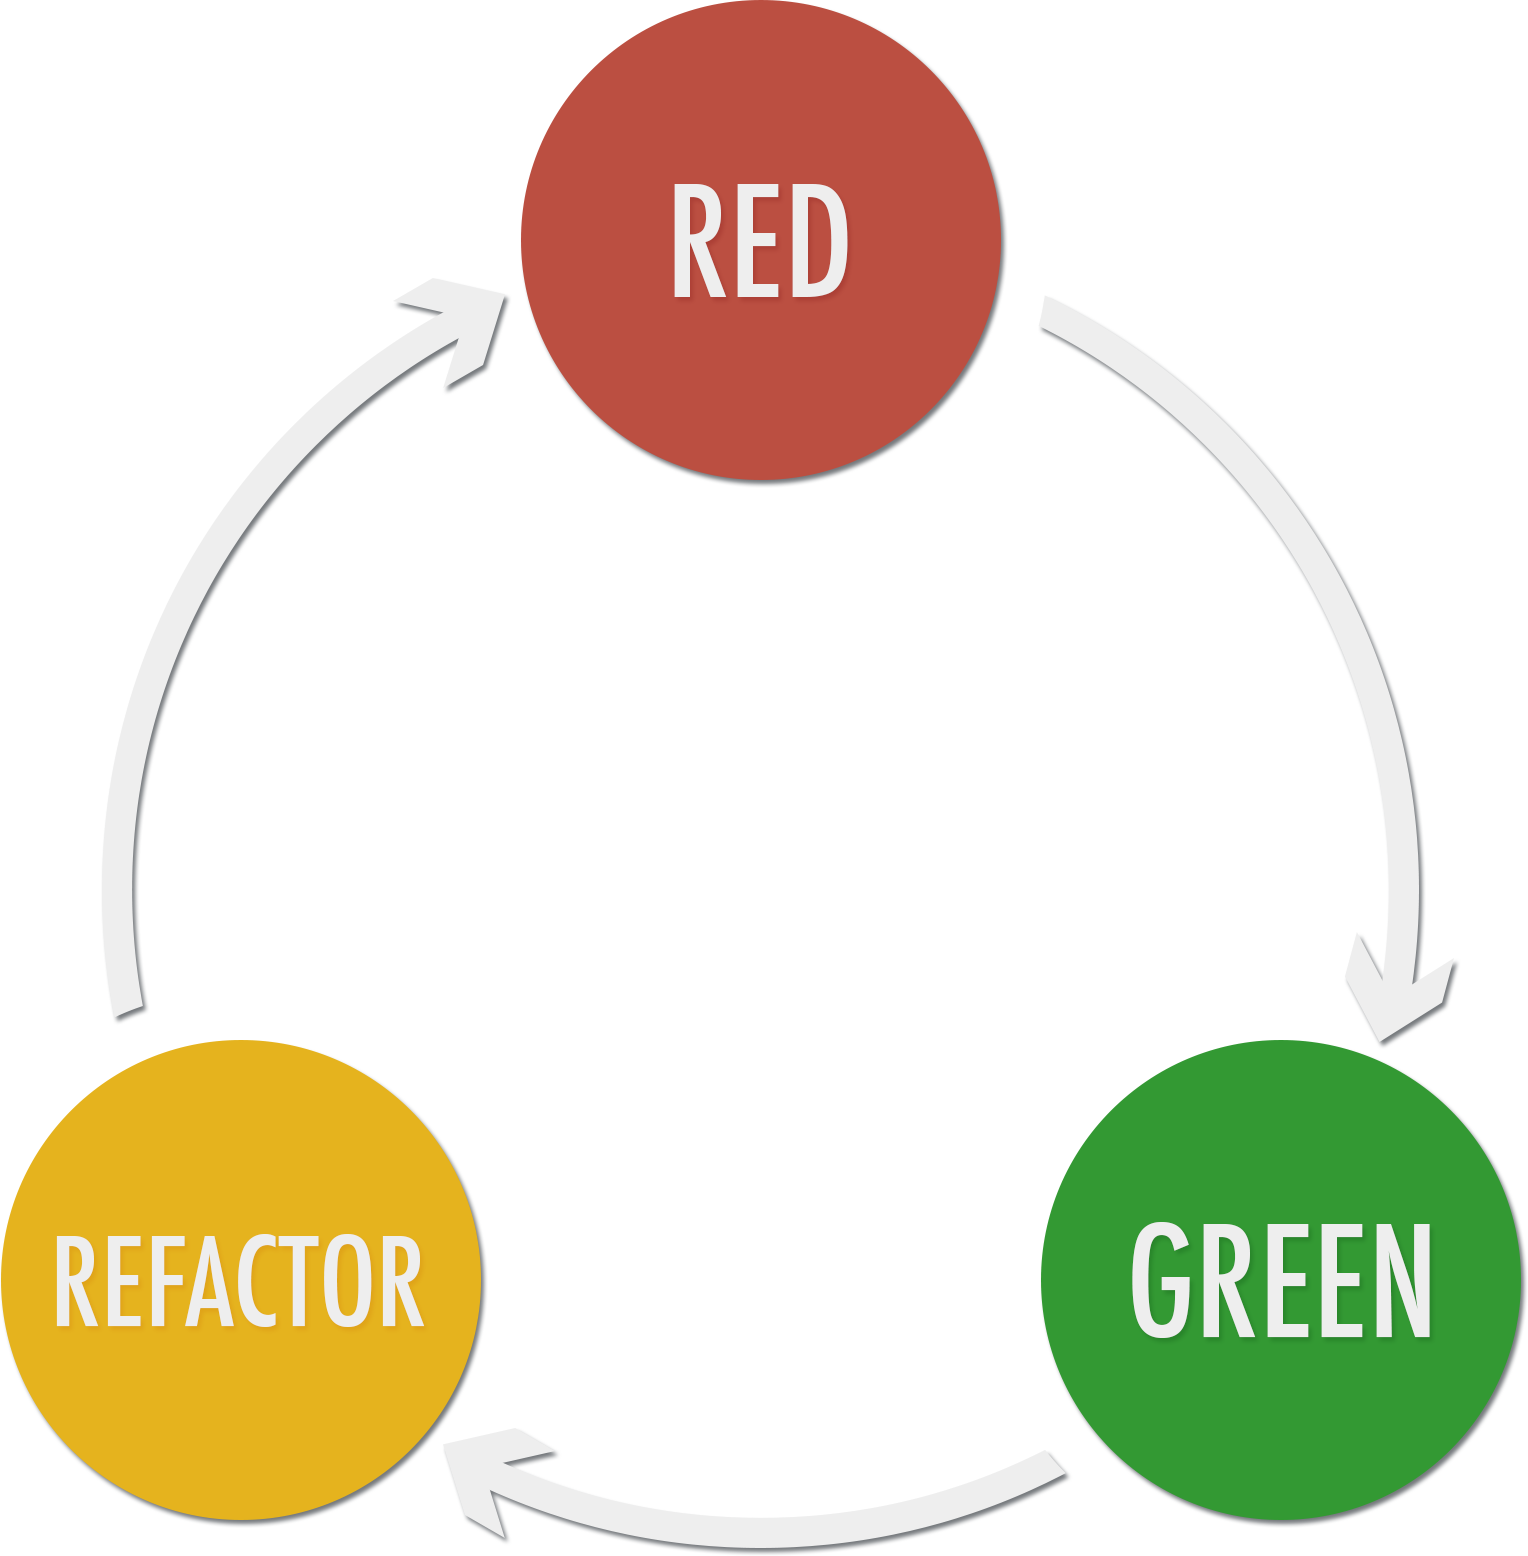
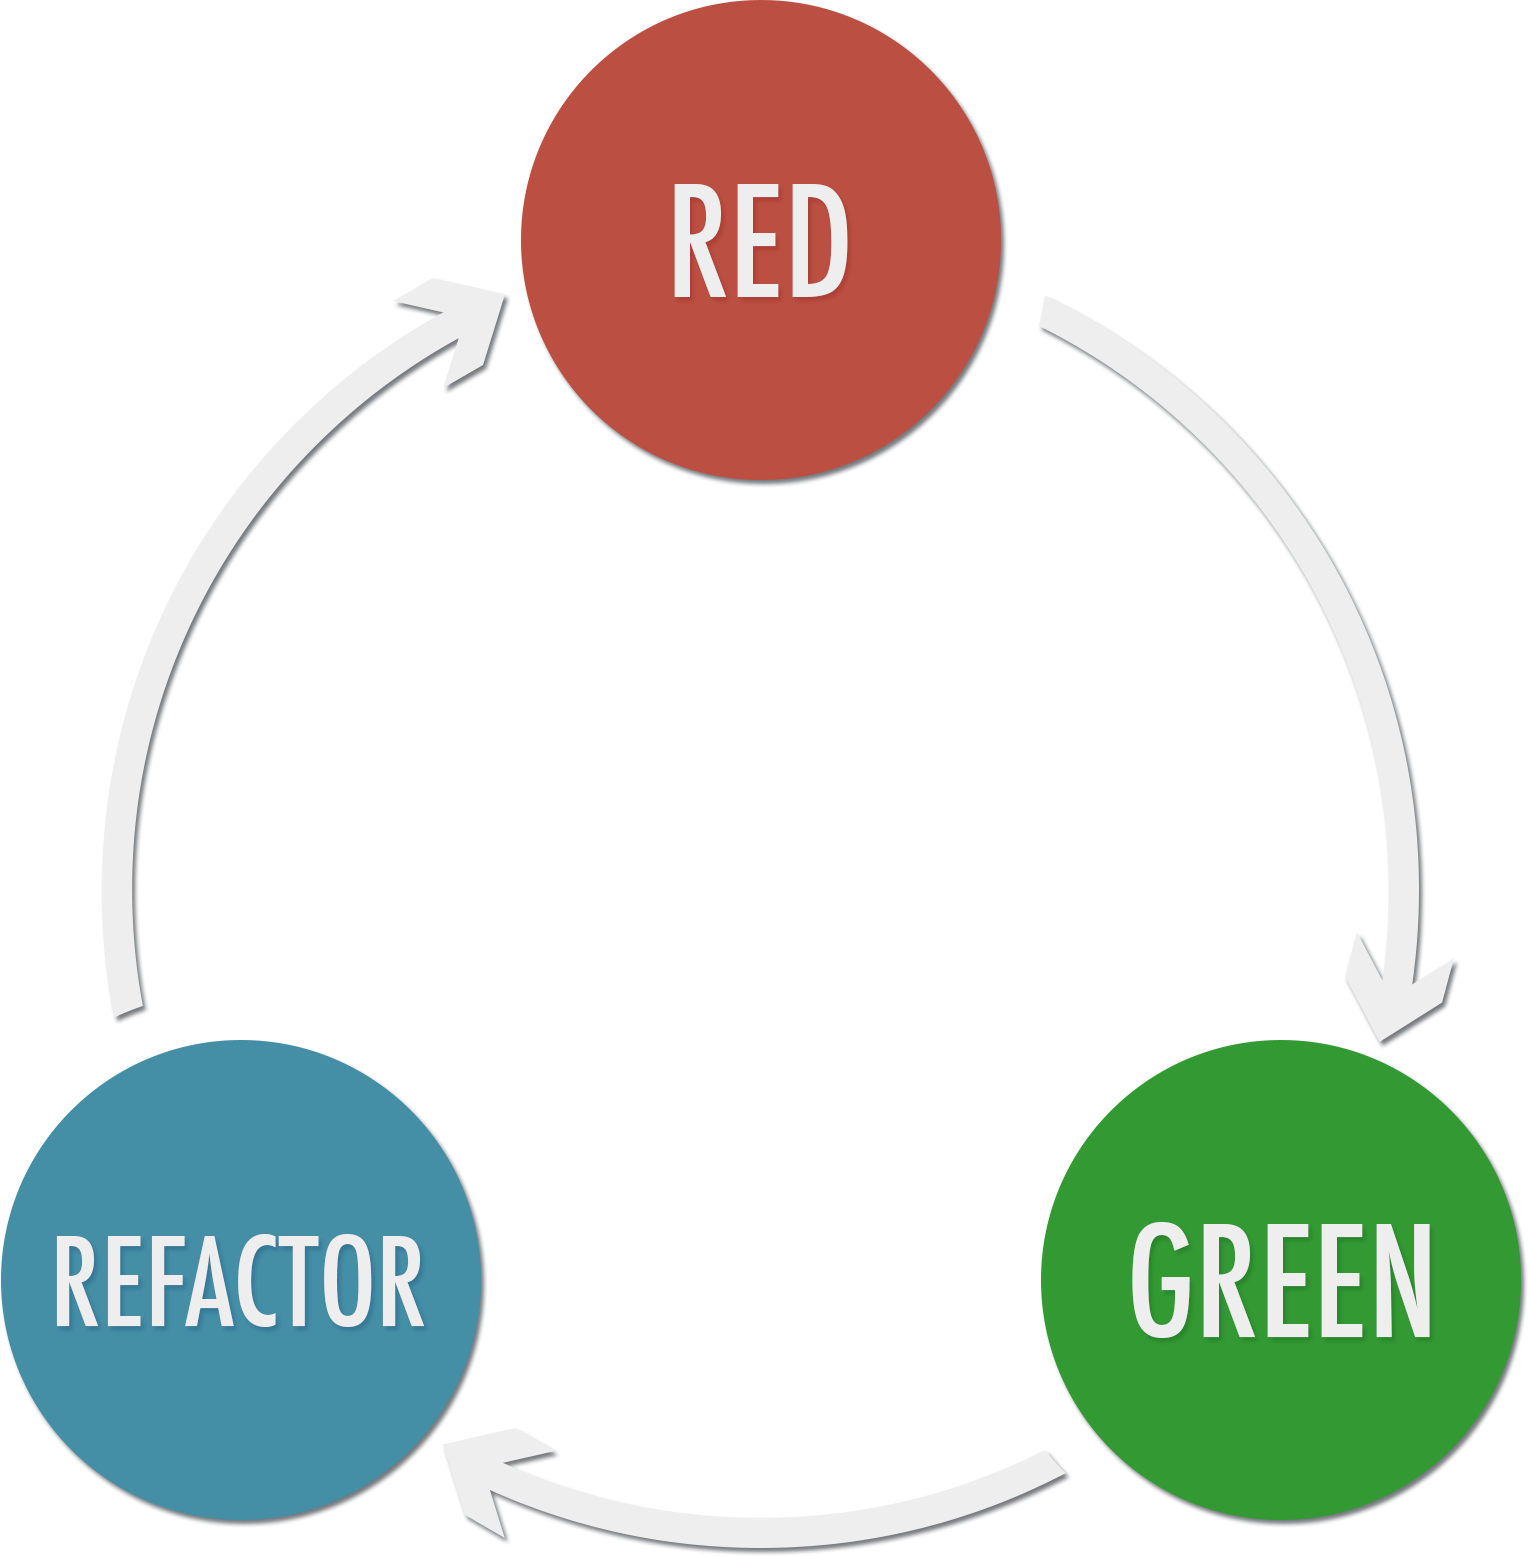
Fixes from feedback notes

Changed region(s): [[0.0, 0.6478, 0.3384, 0.9871]]

diff --git a/index.html b/index.html
@@ -38,7 +38,7 @@
         }
 
         .reveal section .refactor {
-            color: #e5b31e;
+            color: #448ea6;
             text-shadow: none;
         }
 
@@ -78,7 +78,7 @@
             [@brrygrdn](https://twitter.com/brrygrdn)
 
             Note:
-
+            - Test first!
             - TDD is a big subject, the detail of testing applications and techniques are a continious conversation
             - I have 15 minutes...
             - Researching the subject, I ran into polemics against TDD
@@ -92,10 +92,8 @@
             [@brrygrdn](https://twitter.com/brrygrdn)
 
             Note:
-
             - This talk is a light manifesto for TDD, and a reminder of how we - as engineers - came to this approach
             - Terrible, handwaving example code; Delegate to far better, detailed talks
-
             - Questions!
                 - How many of you test your software?
                 - How many of you write automatic tests?
@@ -105,7 +103,6 @@
             ## The ascent of a programmer
 
             Note:
-
             - This is perhaps a failing, but that I think of software development as being very empirical
             - To some extent we are condemned as individual coders to retrace the evolution of our discipline
 
@@ -117,10 +114,9 @@
             ```
 
             Note:
-
             - We all start off issuing basic commands and making the computer do something
-            - Its fun
             - We probably did not start out in Ruby
+            - Its fun
 
             ===
             ## Make it flow
@@ -150,6 +146,7 @@
             ```
 
             Note:
+            - Code reuse
 
             ===
             ## Orientate some objects
@@ -172,6 +169,7 @@
             ```
 
             Note:
+            - Encapsulating methods
 
             ===
             ## Start seeing patterns
@@ -271,12 +269,13 @@
             - Adaptive Software Development
             - Feature Driven Development
             - Dynamic Systems Development Method
+            - Waterfall<!-- .element: class="fragment"-->
 
             Note:
-
             - Programmers are iconoclasts when it comes to processes, we like to tear them down and come up new ones
             - A lot of that is re-expressing the same ideas
             - Its where we interface with people who are not programmers and to some extent these are regimes we operate within
+            - Waterfall abstract had feedback loops ( Royce 1970 )
 
             ---
             ## The gist
@@ -290,12 +289,13 @@
             ## Unlimited change, zero documentation
 
             Note:
-
             - Straw man critisim
             - Agile can occasionaly decend to an absence of process
-            - Although it may seem horrifying, this represents the state a lot of us are prepared for now
+            - Although it may seem horrifying, this represents the state a lot of us are prepared for now through working practices like TDD
             - The technology business is about rapid iterations and pivoting of products, the more change we can provide our businesses the better
-            - Documentation is brittle, as rate of change - even rate of progress - increases it becomes harder and harder to maintain. Favour light weight
+            - Documentation is brittle, as rate of change - even rate of progress - increases it becomes harder and harder to maintain
+            - Out of date documentation has no value
+            - Favour light weight
 
             ===
             ## Minimal Documentation
@@ -303,7 +303,8 @@
             ```ruby
               class Salutationizer
                   # Create a Salutationizer
-                  # @param [#name, #dob] person An object with some personal info
+                  # @param [#name, #dob] person
+                  #   An object with some personal info, assumes non-nil
                   def initialize(person)
                     @person = person
                   end
@@ -361,7 +362,7 @@
                     expect(subject.greet).to eql('Happy Birthday John Smith!')
                   end
 
-                  context 'when today is Janurary 1st' do
+                  context 'when today is January 1st' do
                     let(new_years_day) { Time.parse '2014-01-01'  }
                     before { Time.stub(:now).and_return(new_years_day) }
 
@@ -448,10 +449,9 @@
             # Refactor<!-- .element: class="refactor" -->
 
             - ## Improve your solution
-              - ### Decompose long methods
-              - ### Remove duplication
-              - ### Make it expressive
-              - ### Address secondary requirements
+              - ### Performance
+              - ### Quality
+              - ### Maintainability
 
             Note:
 
@@ -464,7 +464,6 @@
             # Write Another Test...<!-- .element: class="red" -->
 
             Note:
-
             - Your next test might be discovering a new need in the unit under test, setting a performance tolerance
             - Adding a new requirement can often invoke refactoring existing code while maintaining their requirements
             - Good processes are about repeatability; iteration
@@ -473,12 +472,12 @@
             ===
             # Confident Code
 
+            - Testing first decouples architecture
             - Expressing needs examines them
             - Implementation code can change
             - Testing surfaces leads to strong contracts
 
             Note:
-
             - Expressing needs examines them; YAGNI
             - If you get the implementation wrong, you can make changes without fear
             - New requirements are framed alongside existing ones
@@ -504,9 +503,7 @@
             - Overtesting is fear
               - TDD helps you manage fear, also known as risk
               - Fear can drive TDD, particularly in legacy code and suites
-
             - Trival examples were super brittle, asserting exact strings
-
             - Keep the test suite fast, decouple.
             - Integration tests happy paths, paths that users should see
             - Edge and Corner cases are tested in units where cost of execution is lower
